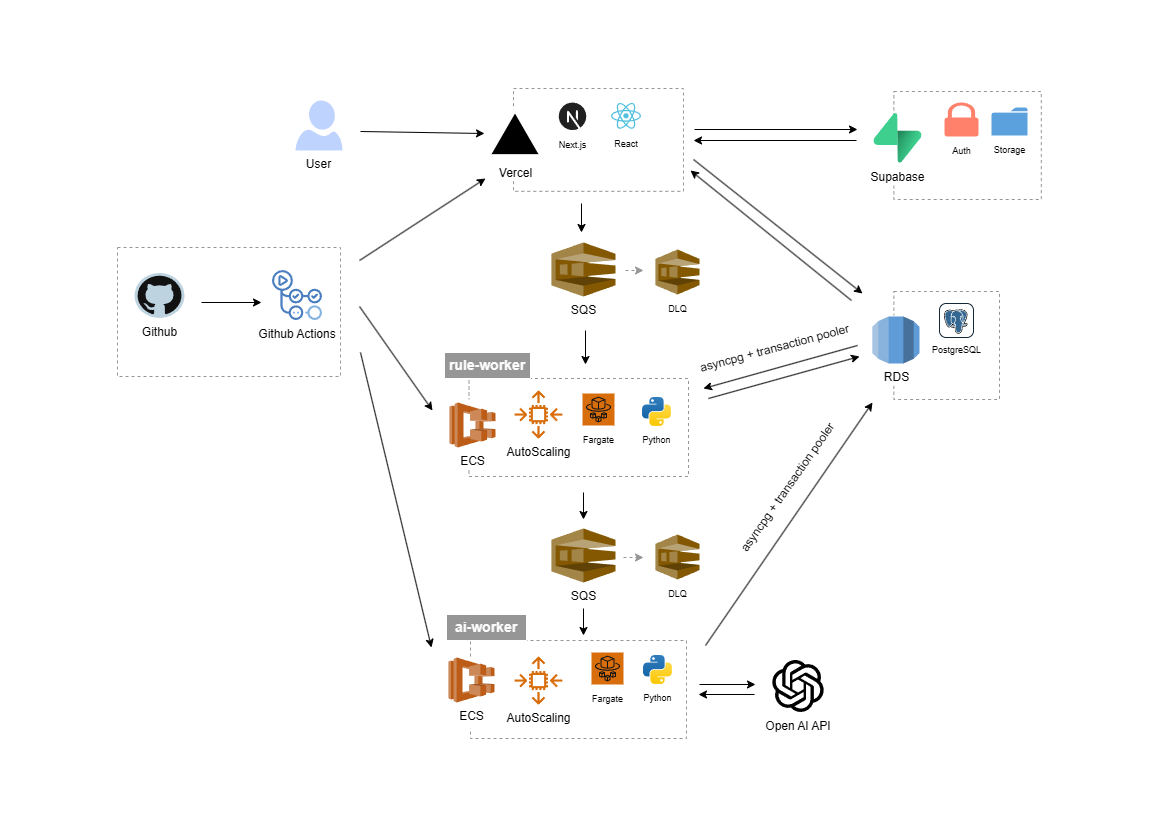
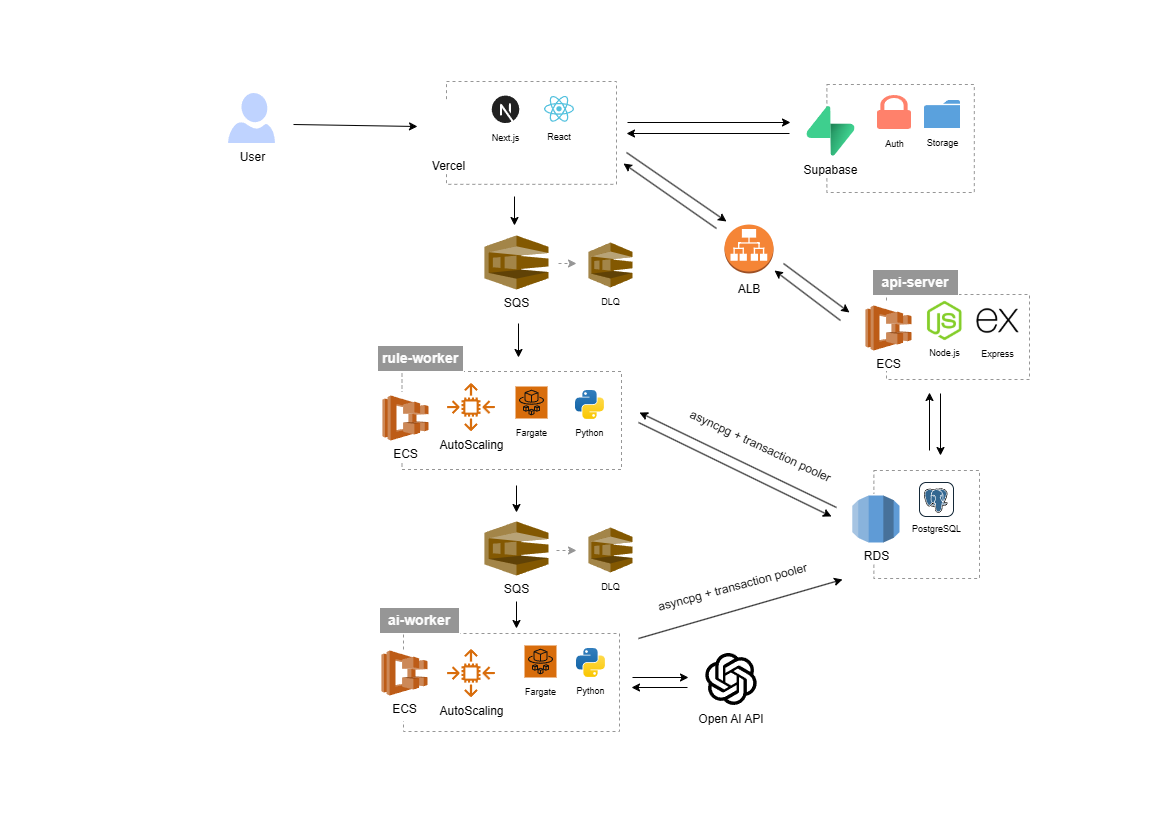
Add v4.0 (RDS 이전) content and v4.1 skeleton, image lightbox
- v4.0: 아키텍처/개선 배경/실험 설계/실험 결과/판단 및 이유/개선 방향 전체 내용 채움
- v4.1 버전 페이지 신규 생성 및 v4.0과 연결 (prev/next)
- index.html 리스트에 v4.0 shipped 처리, v4.1 in progress 항목 추가
- 실험 결과에 사용된 v7 그래프 이미지 추가
- 이미지 클릭 시 확대/축소되는 라이트박스 기능 추가 (common.css, template.html)

diff --git a/project/bottleneck_experiments/versions/v4.0.js b/project/bottleneck_experiments/versions/v4.0.js
@@ -2,42 +2,147 @@ import { section, text, image, imageUrl, imageGrid, subLabel, badge, table, crit
 
 export default {
   version: 'v4.0',
-  title: 'TODO: 제목을 작성해주세요.',
-  status: 'in progress',
-  tags: [],
+  title: 'AWS RDS 이전 및 DB 접근 구조 개선',
+  status: 'shipped',
+  tags: ['AWS RDS', 'ALB', 'asyncpg', 'OpenAI Rate Limit'],
   prev: '3.2',
-  next: null,
+  next: '4.1',
 
   sections: [
 
     // 01 아키텍처
     section(1, '아키텍처', `
-      ${text('TODO: 아키텍처를 작성해주세요.')}
+      ${text([
+        'Supabase의 DB 기능을 AWS RDS로 이전하고, Supabase에서는 Auth/Storage만 유지하도록 변경하였습니다.',
+        '이에 따라 ALB 및 ECS API Server를 도입하여 Vercel에서 Private RDS에 안전하게 접근할 수 있는 구조로 구성하였습니다.',
+        '또한 AI-Worker는 supabase-py에서 asyncpg 기반으로 변경하고 Transaction Pooler를 적용하였습니다.',
+      ])}
+      ${imageUrl('../../assets/images/bottleneck_experiments/v7/v7-diagram.png', 'v4.0 아키텍처 다이어그램')}
     `),
 
     // 02 개선 배경
     section(2, '개선 배경', `
-      ${text('TODO: 개선 배경을 작성해주세요.')}
+      ${text([
+        '이전 부하 테스트 결과, Supabase에 의존하던 기능들을 분리하여 독립적으로 운영해야할 필요성을 확인했습니다. 따라서 Auth와 Storage 기능만 Supabase에 유지하고, Database는 AWS RDS로 이전하기로 결정하였습니다.',
+        '이 때 RDS는 보안을 위해 private subnet으로 배치하였습니다. 하지만 Vercel은 고정 IP가 없는 서버리스 환경이기 때문에 Private Subnet에 위치한 RDS에 직접 접근할 수 없었습니다. RDS Proxy를 사용하는 방법도 고려하였지만 해당 기능은 프리티어에서는 지원하지 않는다는 문제가 있었습니다. 따라서 새 서비스 추가 비용을 최소로 하기 위해, 이미 rule-worker와 ai-worker가 돌아가고 있는 ECS에 api-server 서비스를 추가하였습니다. 이때 해당 서비스는 기존 FE 프로젝트와 동일한 TypeScript 기반으로 구현하여 개발 효율과 유지보수가 용이하도록 했으며, API 전용 서버이므로 Express를 사용하여 구현하였습니다.',
+        '또한 ECS Fargate 환경에서는 task가 재배포되거나 Auto Scaling이 수행될 경우 IP가 변경될 수 있으므로 외부에서 접근 가능한 고정 진입점이 필요했습니다. 또한 HTTPS 적용을 위해서는 인증서를 발급해야만 했습니다. Let\'s Encrypt와 같은 무료 SSL 인증서를 발급할 수도 있었지만 개발 및 운영 복잡도가 증가하게 되는 반면, ACM을 사용하면 ALB와 같이 사용시 인증서를 자동으로 발급, 갱신, 교체해줘 운영 부담이 적기 때문에 ACM, ALB를 사용하기로 결정했습니다.',
+        '그에 따라 ALB와 ACM을 통해 api-server를 고정된 HTTPS 엔드포인트로 외부에 제공할 수 있게 되었으며, 인증서의 발급과 갱신을 AWS에서 자동적으로 관리하게 되므로 운영의 부담 역시 줄일 수 있었습니다.',
+        '또한 ai-worker 역시 rule-worker와 같이 기존 supabase-py를 통한 접근 대신 asyncpg 기반으로 RDS에 직접 연결할 수 있도록 변경하였습니다. 또한 Transaction Pooler를 적용해 제한된 PostgreSQL Connection을 효율적으로 사용할 수 있도록 하였습니다.',
+      ])}
     `),
 
     // 03 실험 설계
     section(3, '실험 설계', `
-      ${text('TODO: 실험 설계를 작성해주세요.')}
+      ${text('데이터베이스를 AWS RDS로 이전하고 ai-worker의 DB 접근 방식(asyncpg + Transaction Pooler)을 제외한 모든 실험 조건은 이전 버전과 동일하게 유지하여 부하테스트를 수행하였습니다.')}
     `),
 
     // 04 실험 결과
     section(4, '실험 결과', `
-      ${text('TODO: 실험 결과를 작성해주세요.')}
+      ${subLabel('베이스라인 테스트', `
+        ${table({
+          head: ['회차', 'avg (s)', 'p95 (s)', '에러율'],
+          rows: [
+            { cells: ['1', '2.10', '3.19', '0%'] },
+            { cells: ['2', '1.42', '1.98', '0%'] },
+            { cells: ['3', '1.15', '1.67', '0%'] },
+            { cells: ['4', '1.13', '1.67', '0%'] },
+            { cells: ['5', '0.81', '1.05', '0%'] },
+            { cells: ['6', '1.01', '1.20', '0%'] },
+            { cells: ['7', '0.90', '1.05', '0%'] },
+            { cells: ['8', '0.89', '1.18', '0%'] },
+            { cells: ['9', '1.06', '1.28', '0%'] },
+            { cells: ['10', '0.84', '1.02', '0%'] },
+            { cells: ['평균 (2~10회)', '1.02', '1.34', '0%'], highlight: true },
+          ]
+        })}
+        <p class="body-text" style="margin-top:12px;">1회차를 cold start로 추정하여 제외하였습니다. 데이터가 안정된 2~10회차 평균을 베이스라인으로 설정하였습니다.</p>
+      `)}
+      ${subLabel('점진적 부하 테스트', `
+        ${badge('애플리케이션 지표', `
+          ${table({
+            head: ['지표', '결과'],
+            rows: [
+              { cells: ['avg', '0.83'] },
+              { cells: ['p95', '1.21'] },
+              { cells: ['에러율', '0%'] },
+            ]
+          })}
+          <div style="margin-top:20px;">
+            ${table({
+              head: ['VU', 'avg', 'p95', '상태'],
+              rows: [
+                { cells: ['0→10', '1.02', '1.87', '안정'] },
+                { cells: ['10', '0.88', '1.47', '안정'] },
+                { cells: ['30', '0.84', '1.21', '안정'], highlight: true },
+                { cells: ['50', '0.83', '1.20', '안정'] },
+                { cells: ['100', '0.82', '1.94', '안정'] },
+              ]
+            })}
+          </div>
+          <p class="body-text" style="margin-top:12px;">100VU 전 구간에서 안정상태였으며 임계점 대비 40% 수준에서도 에러율 0%로 확인되었습니다.</p>
+        `)}
+        ${badge('event-queue', `
+          ${imageUrl('../../assets/images/bottleneck_experiments/v7/v7-event-queue-sent-deleted.png', 'event-queue Sent/Deleted 그래프')}
+          <div style="margin-top:20px;">
+            ${imageUrl('../../assets/images/bottleneck_experiments/v7/v7-event-queue-oldest.png', 'event-queue Approximate Age Of Oldest Message 그래프')}
+          </div>
+          <div style="margin-top:20px;">
+            ${imageUrl('../../assets/images/bottleneck_experiments/v7/v7-event-queue-task-count.png', 'event-queue Task Count 그래프')}
+          </div>
+          <p class="body-text" style="margin-top:12px;">50VU 구간까지 Number Of Messages Sent와 Number Of Messages Deleted가 거의 동일하게 유지되며, 100VU 구간부터 격차가 발생하기 시작했습니다. 또한 전 구간에서 Approximate Age Of Oldest Message는 최대 1분 이내로 유지되었으며, rule-worker live task count를 확인한 결과 테스트 구간 대부분에서는 task 1개로 유지되다가 부하가 종료되는 시점에 근접했을 때 scale-out이 발생했습니다.</p>
+        `)}
+        ${badge('rule-worker 관련 cloudwatch 지표', `
+          ${imageUrl('../../assets/images/bottleneck_experiments/v7/v7-rule-worker-cpu-memory.png', 'rule-worker CPU/Memory 그래프')}
+          <p class="body-text" style="margin-top:12px;">rule-worker의 CPU Utilization은 VU 증가에 따라 단계적으로 상승하였으며, 100VU 구간에서는 100%에 근접하였습니다.</p>
+        `)}
+        ${badge('ai-queue', `
+          ${imageUrl('../../assets/images/bottleneck_experiments/v7/v7-ai-queue-sent-deleted.png', 'ai-queue Sent/Deleted 그래프')}
+          <div style="margin-top:20px;">
+            ${imageUrl('../../assets/images/bottleneck_experiments/v7/v7-ai-queue-oldest.png', 'ai-queue Approximate Age Of Oldest Message 그래프')}
+          </div>
+          <div style="margin-top:20px;">
+            ${imageUrl('../../assets/images/bottleneck_experiments/v7/v7-ai-queue-visible.png', 'ai-queue Approximate Number Of Messages Visible 그래프')}
+          </div>
+          <div style="margin-top:20px;">
+            ${imageUrl('../../assets/images/bottleneck_experiments/v7/v7-ai-queue-task-count.png', 'ai-queue Task Count 그래프')}
+          </div>
+          <p class="body-text" style="margin-top:12px;">부하가 지속됨에 따라 Number Of Messages Sent와 Number Of Messages Deleted간 격차가 지속적으로 확대되는 것을 확인할 수 있었습니다. 또한 Approximate Age Of Oldest Message는 최대 10.5분까지 증가했으며 Approximate Number Of Messages Visible가 테스트 시작 시점 107건에서 최대 8030건까지 선형적으로 증가했습니다. Live Task Count 확인 결과 4개, 7개, 10개로 단계적으로 확장되는 것을 확인할 수 있었습니다.</p>
+        `)}
+        ${badge('ai-worker 관련 cloudwatch 지표', `
+          ${imageUrl('../../assets/images/bottleneck_experiments/v7/v7-ai-worker-cpu-memory.png', 'ai-worker CPU/Memory 그래프')}
+          <p class="body-text" style="margin-top:12px;">CPU Utilization은 최대 58.9% 수준에 머무르는 것으로 확인되었습니다.</p>
+        `)}
+      `)}
     `),
 
     // 05 판단 및 이유
     section(5, '판단 및 이유', `
-      ${text('TODO: 판단 및 이유를 작성해주세요.')}
+      ${subLabel('분석 1 : Rule-worker 처리 구조', `
+        ${text([
+          '50VU까지는 event-queue의 Number Of Messages Sent와 Number Of Messages Deleted가 거의 동일하게 유지되었다는 점을 통해 단일 Rule-worker Task만으로도 부하를 충분히 처리할 수 있다는 것을 확인하였습니다. 하지만 100VU 구간에서는 두 지표 간 격차가 발생하기 시작했고, CPU Utilization도 100%에 근접했는데도 Scale-out이 부하 종료 시점에 가까워져서야 수행되었습니다.',
+          '이를 통해 SQS Visible Message만을 기준으로 한 현재 Auto Scaling 정책은 초기 부하 변화에 대한 반응이 다소 늦은 것으로 판단하였고, 이에 따라 CPU Utilization과 같은 리소스 지표를 함께 활용하는 방식도 고려해보아야겠다 판단하였습니다.',
+        ])}
+      `)}
+      ${subLabel('분석 2 : ai-worker 처리량', `
+        ${text([
+          'AI-worker는 부하가 증가함에 따라 Approximate Age Of Oldest Message가 최대 10.5분까지 증가하였으며, Approximate Number Of Messages Visible도 107건에서 최대 8,030건까지 지속적으로 증가하였습니다. 이를 통해 메시지 유입 속도가 처리 속도를 지속적으로 상회하여 Queue에 Backlog가 누적되고 있다고 판단하였습니다.',
+          '또한 Worker를 4개, 7개, 10개까지 단계적으로 확장시 4개에서는 처리량 증가 효과가 미미하였고 7개에서만 일시적으로 처리량이 유지되었습니다. 반면 10개에서는 오히려 Number Of Messages Sent와 Number Of Messages Deleted가 감소했으며 CPU Utilization은 최대 58.9% 수준으로 여유가 있었으므로 ECS 리소스 자체가 병목은 아니라고 판단하였습니다.',
+        ])}
+      `)}
+      ${subLabel('분석 3 : OpenAI Rate limit', `
+        ${imageUrl('../../assets/images/bottleneck_experiments/v7/v7-tpm.png', 'OpenAI TPM/RPM/RPD 사용량 그래프')}
+        <div style="margin-top:20px;">
+          ${text([
+            'CloudWatch Logs Insights 분석 결과 OpenAI RateLimitError(HTTP 429)가 총 3,710건 발생하는 것을 확인했습니다. 또한 로그에는 TPM(1,522건), RPM(1,184건), RPD(1,004건) 제한 초과가 모두 포함되어 있었습니다.',
+            '이를 통해 Worker를 확장하더라도 외부 LLM API의 사용량 제한으로 인해 처리량이 증가하지 않았음을 확인하였습니다.',
+          ])}
+        </div>
+      `)}
     `),
 
     // 06 개선 방향
     section(6, '개선 방향', `
-      ${text('TODO: 개선 방향을 작성해주세요.')}
+      ${text('Rule-worker는 Auto Scaling 정책을 개선하여 초기 부하에 더 빠르게 대응할 수 있도록 하고, AI-worker는 OpenAI API의 Rate Limit을 고려한 Concurrency 제어를 적용하는 방향으로 개선하기로 결정했습니다. 다만 현재 사용 중인 OpenAI Tier에서는 처리량을 추가로 높이는 데 한계가 있다고 판단하였습니다. 하지만 비용을 고려해 Tier 업그레이드는 수행하지 않기로 했습니다.')}
     `),
   ]
 };

diff --git a/project/bottleneck_experiments/versions/v4.1.js b/project/bottleneck_experiments/versions/v4.1.js
@@ -1,0 +1,43 @@
+import { section, text, image, imageUrl, imageGrid, subLabel, badge, table, criteriaGrid, tooltip, note } from '../components/render.js';
+
+export default {
+  version: 'v4.1',
+  title: 'TODO: 제목을 작성해주세요.',
+  status: 'in progress',
+  tags: [],
+  prev: '4.0',
+  next: null,
+
+  sections: [
+
+    // 01 아키텍처
+    section(1, '아키텍처', `
+      ${text('TODO: 아키텍처를 작성해주세요.')}
+    `),
+
+    // 02 개선 배경
+    section(2, '개선 배경', `
+      ${text('TODO: 개선 배경을 작성해주세요.')}
+    `),
+
+    // 03 실험 설계
+    section(3, '실험 설계', `
+      ${text('TODO: 실험 설계를 작성해주세요.')}
+    `),
+
+    // 04 실험 결과
+    section(4, '실험 결과', `
+      ${text('TODO: 실험 결과를 작성해주세요.')}
+    `),
+
+    // 05 판단 및 이유
+    section(5, '판단 및 이유', `
+      ${text('TODO: 판단 및 이유를 작성해주세요.')}
+    `),
+
+    // 06 개선 방향
+    section(6, '개선 방향', `
+      ${text('TODO: 개선 방향을 작성해주세요.')}
+    `),
+  ]
+};

diff --git a/project/bottleneck_experiments/index.html b/project/bottleneck_experiments/index.html
@@ -201,14 +201,29 @@
 
     <div class="log">
 
-      <a class="entry" href="template.html?v=4.0">
+      <a class="entry" href="template.html?v=4.1">
         <div class="row1">
-          <span class="ver">v4.0</span>
+          <span class="ver">v4.1</span>
           <span class="status live">in progress</span>
 
         </div>
         <div class="title">TODO: 제목을 작성해주세요.</div>
         <div class="stack">
+        </div>
+      </a>
+
+      <a class="entry" href="template.html?v=4.0">
+        <div class="row1">
+          <span class="ver">v4.0</span>
+          <span class="status done">shipped</span>
+
+        </div>
+        <div class="title">AWS RDS 이전 및 DB 접근 구조 개선</div>
+        <div class="stack">
+          <span class="chip"><span class="ic"></span>AWS RDS</span>
+          <span class="chip"><span class="ic"></span>ALB</span>
+          <span class="chip"><span class="ic"></span>asyncpg</span>
+          <span class="chip"><span class="ic"></span>OpenAI Rate Limit</span>
         </div>
       </a>
 

diff --git a/project/bottleneck_experiments/template.html b/project/bottleneck_experiments/template.html
@@ -63,6 +63,25 @@
       }
       nav.innerHTML = navHTML;
     }
+
+    // 이미지 라이트박스 (클릭 시 확대, 다시 클릭 시 원상태)
+    const lightbox = document.createElement('div');
+    lightbox.className = 'lightbox-overlay';
+    const lightboxImg = document.createElement('img');
+    lightbox.appendChild(lightboxImg);
+    document.body.appendChild(lightbox);
+
+    document.getElementById('page-content').addEventListener('click', e => {
+      const img = e.target.closest('.placeholder.has-image img');
+      if (!img) return;
+      lightboxImg.src = img.src;
+      lightboxImg.alt = img.alt;
+      lightbox.classList.add('open');
+    });
+    lightbox.addEventListener('click', () => lightbox.classList.remove('open'));
+    document.addEventListener('keydown', e => {
+      if (e.key === 'Escape') lightbox.classList.remove('open');
+    });
   </script>
 </body>
 </html>

diff --git a/project/bottleneck_experiments/common.css b/project/bottleneck_experiments/common.css
@@ -210,7 +210,27 @@ tr.highlight td{ color: var(--accent); font-weight:500; }
   overflow: hidden;
 }
 .placeholder.has-image{ padding: 0; }
-.placeholder.has-image img{ border-radius: 0; }
+.placeholder.has-image img{ border-radius: 0; cursor: zoom-in; }
+
+.lightbox-overlay{
+  position: fixed; inset: 0;
+  background: rgba(27,36,48,.86);
+  display: flex; align-items:center; justify-content:center;
+  padding: 40px;
+  z-index: 999;
+  cursor: zoom-out;
+  opacity: 0;
+  pointer-events: none;
+  transition: opacity .18s ease;
+}
+.lightbox-overlay.open{ opacity: 1; pointer-events: auto; }
+.lightbox-overlay img{
+  max-width: 92vw;
+  max-height: 92vh;
+  border-radius: 4px;
+  box-shadow: 0 20px 60px rgba(0,0,0,.4);
+  cursor: zoom-out;
+}
 
 .image-grid{
   display:grid; grid-template-columns:1fr 1fr; gap:6px; margin-top:10px;
